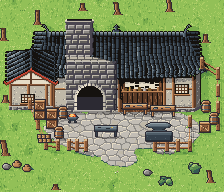
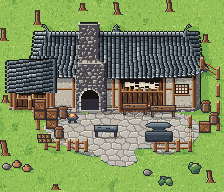
feat(mapas): roof.lean (un cobertizo de un solo agua), tejas con canal hondo y canto de luz
La forja, segunda vuelta contra la referencia: las columnas de teja se cuentan
(una cada 4 px), la chimenea es un volumen pegado al edificio (menos de un
quinto de la fachada, piedra chica y honda: lo más claro es el fuego) y el anexo
es un cobertizo de la misma teja, no una casita con fachada clara.

diff --git a/src/headless/mapsteps/building.ts b/src/headless/mapsteps/building.ts
@@ -103,17 +103,18 @@ export function paintRoof(ctx: Ctx, s: RoofShape, x0: number, y0: number, x1: nu
     const ph = Math.floor(h2(col, 0, salt) * th);
     const course = Math.floor((t + ph) / th), r = mod(t + ph, th);
     let c: number;
-    if (i === tw - 1) c = 1;                               // the channel between two columns
-    else if (i === 0) c = r === th - 1 ? 3 : 4;            // the round edge toward the light
+    // contrast enough that the columns count from afar: a dark channel, a lit round edge
+    if (i === tw - 1) c = 0;                               // the channel between two columns
+    else if (i === 0) c = r === th - 1 ? 3 : LIT;          // the round edge toward the light
+    else if (i === 1 && tw > 3) c = 4;                     // the light rolling off it
     else if (i === tw - 2 && tw > 2) c = 2;                // its shaded side
     else c = 3;
     if (r === th - 1 && i > 0 && i < tw - 1) c -= 1;       // the end of a tile laps over the next one: a notch
-    if (r === 0 && i === 0 && h2(col, course, salt + 3) < 0.5) c = LIT;
+    if (r === 0 && i === 0 && h2(col, course, salt + 3) < 0.4) c = GLINT;
     if (c >= 2) c += vary(col, course >> 1);
     if (f < 0.22 && c > 1) c -= 1;                         // under the ridge, in its shadow
     else if (f > 0.7 && c >= 2 && c < LIT && i === 0) c += 1;
     if (c >= 2) c += shift;
-    if (c === LIT && h2(col, course, salt + 4) < 0.15) c = GLINT;
     return Math.max(0, Math.min(n - 1, c));
   };
 
@@ -156,7 +157,7 @@ export function paintRoof(ctx: Ctx, s: RoofShape, x0: number, y0: number, x1: nu
           const i = mod(a, tw);
           if (y >= b - 2) {
             // the row of tile ends along the eaves: round ends, the channel stops short (the edge is never ruled)
-            if (y === b - 2) put(x, y, i === tw - 1 ? 1 : i === 0 ? 4 : i === tw - 2 ? 2 : LIT - (i === 1 ? 0 : 1));
+            if (y === b - 2) put(x, y, i === tw - 1 ? 1 : i === 0 || i === 1 ? GLINT : i === tw - 2 ? 3 : LIT); // the cold glint of the tile ends
             else if (i !== tw - 1) put(x, y, i === 0 || i === tw - 2 ? 1 : 2);
             continue;
           }
@@ -223,12 +224,16 @@ export function paintRoof(ctx: Ctx, s: RoofShape, x0: number, y0: number, x1: nu
   }
 
   // ---- a north-south ridge: two slopes, the west one lit and the east one in shade, a gable at the south end
-  const G = s.gable ?? 0;
-  const X0 = x0 - E, X1 = x1 + E - 1, xc = (X0 + X1) / 2, half = (X1 - X0) / 2;
+  // lean: a single slope, its ridge against the side it leans from (a shed against a wall)
+  const G = s.lean ? 0 : s.gable ?? 0;
+  const X0 = x0 - E, X1 = x1 + E - 1;
+  const xc = s.lean === 'west' ? X1 : s.lean === 'east' ? X0 : (X0 + X1) / 2;
+  const half = s.lean ? X1 - X0 : (X1 - X0) / 2;
   const top = (x: number) => y0 + Math.round(2 * Math.abs(x - xc) / half);
   const Yb = G ? y1 : y1 + E;
   const vline = (x: number) => (G ? y1 - G * (1 - Math.abs(x - xc) / half) : Yb);
-  const cw = Math.max(2, cap - 1), rc0 = Math.round(xc - cw / 2), rc1 = rc0 + cw;
+  const cw = Math.max(2, cap - 1);
+  const rc0 = s.lean === 'west' ? X1 - cw : s.lean === 'east' ? X0 : Math.round(xc - cw / 2), rc1 = rc0 + cw;
   for (let x = X0; x <= X1; x++) {
     const yb = Math.round(vline(x));
     for (let y = top(x); y < yb; y++) {
@@ -241,10 +246,11 @@ export function paintRoof(ctx: Ctx, s: RoofShape, x0: number, y0: number, x1: nu
       const west = x < rc0;
       const t = west ? rc0 - 1 - x : x - rc1 - 1;
       // the columns of tiles run down from the ridge and out, leaning down as they go (a pitch seen from the south)
-      const edge = west ? x - X0 : X1 - x, a = y - y0 - Math.round(t * 0.5);
+      // (a shed's single slope falls nearly level: its columns lean only a little)
+      const edge = west ? x - X0 : X1 - x, a = y - y0 - Math.round(t * (s.lean ? 0.15 : 0.5));
       if (edge === 0) { if (mod(a, tw) !== tw - 1) put(x, y, 1); continue; } // tile ends along the eaves
       if (edge === 1) { put(x, y, mod(a, tw) === tw - 1 ? 1 : west ? LIT : 3); continue; }
-      put(x, y, tileTone(t, a, Math.min(1, t / Math.max(1, half - cw)), west ? 1 : -1));
+      put(x, y, tileTone(t, a, Math.min(1, t / Math.max(1, half - cw)), s.lean ? 0 : west ? 1 : -1));
     }
   }
   // the north end of the ridge rises in a hook
@@ -307,7 +313,7 @@ export function runChimney(ctx: Ctx, st: ChimneyStep): void {
   const size = st.stones ?? [3, 6];
   const field = (st.masonry ?? 'coursed') === 'rubble' ? rubbleField(salt, size, 1.3) : coursedField(salt, st.course ?? 5, size[1] + 2);
   const front = (x: number, y: number, shadeTop: number) => {
-    let c = rubbleTone(field, x, y, -1, salt + 2, 2, [3, 4, 3, 4, 3, 4], b => b + 2, b => b - 1);
+    let c = rubbleTone(field, x, y, -1, salt + 2, 2, [3, 3, 4, 3, 3, 4], b => b + 2, b => b - 1);
     if (y < shadeTop + 1 && c > 2) c -= 1;
     return c;
   };

diff --git a/src/headless/mapsteps/buildingsteps.test.ts b/src/headless/mapsteps/buildingsteps.test.ts
@@ -116,6 +116,19 @@ describe('map roof', () => {
     expect(band.has('pergamino')).toBe(true);
   });
 
+  it('a shed: one slope only, falling west, its ridge along the east edge, as dark as the roof it leans on', () => {
+    const v = paintMap(recipe([GROUND, { step: 'roof', material: 'teja', rect: [4, 3, 4, 3], ridge: 'v', lean: 'west', curl: 0 }]), game);
+    const tiles = kindMask(v, ['teja']);
+    const xs = tiles.flatMap((t, i) => (t ? [i % v.width] : []));
+    const east = Math.max(...xs);
+    // the ridge: its dark edge on the east side; a slope of tiles across all the rest, no east slope
+    const col = (x: number) => [...Array(30).keys()].map(k => at(v, x, 60 + k));
+    expect(col(east - 1).filter(c => c === 'tinta').length).toBeGreaterThan(20);
+    const tones = new Set(col(80));
+    expect(tones.size).toBeGreaterThanOrEqual(3);
+    expect(Math.min(...xs)).toBeLessThan(64);
+  });
+
   it('the same salt, the same pixels; another salt, other tiles', () => {
     const again = paintMap(recipe([GROUND, ROOF]), game);
     expect(again.layers.ground.px).toEqual(m.layers.ground.px);
@@ -265,7 +278,7 @@ describe('map recipe: the forge', () => {
       return [...tops].sort((a, b) => a - b)[Math.floor(tops.length / 2)];
     };
     const range = (a: number, b: number) => [...Array(b - a).keys()].map(i => a + i);
-    const chimney = top('piedra de la forja', range(70, 80)), main = top('teja', range(120, 170)), annex = top('teja', range(20, 30));
+    const chimney = top('piedra de la forja', range(82, 92)), main = top('teja', range(120, 170)), annex = top('teja', range(20, 30));
     expect(chimney).toBeLessThan(main - 6);
     expect(main).toBeLessThan(annex - 8);
   });

diff --git a/src/headless/mapsteps/buildingschema.ts b/src/headless/mapsteps/buildingschema.ts
@@ -16,6 +16,7 @@ export const roofShape = z.object({
   material: z.string().describe('the tiles: a ramp of at least 6 tones [ink, deep, shadow, body, light, lit] (+ a glint), e.g. tinta, basalto hondo, basalto sombra, basalto, basalto claro, basalto luz, niebla'),
   ridge: z.enum(['h', 'v']).optional().describe('the ridge runs east-west (h: the south slope is what shows, the north one hides behind the ridge) or north-south (v: two slopes, the west one lit and the east one in shade) (default h)'),
   hip: z.number().int().min(0).optional().describe('h: px the ridge stops short of each end: the ends are hips (two triangles, the west lit and the east in shade, with a ridge of tiles down each hip line); 0 = gable ends (default 0)'),
+  lean: z.enum(['west', 'east']).optional().describe('v: one slope only, falling to that side, its ridge along the other edge (a shed leaning on a wall; no gable)'),
   gable: z.number().int().min(0).optional().describe('v: px high of the gable at the south end (the triangle of wall under the two slopes, framed by its bargeboards); 0 = none (default 0)'),
   pediment: z.object({
     fill: z.array(z.string()).min(2).optional().describe('the triangle: [shadow, body] (default túnica sombra, pergamino)'),

diff --git a/docs/map_recipes.md b/docs/map_recipes.md
@@ -179,7 +179,9 @@ de este documento es `docs/diseno/pintar_mapas.md` de ese repo.
   con luz, la del este en sombra); `ridge: "v"` muestra las dos aguas, la del
   oeste con luz, con las costillas bajando en diagonal desde el caballete, y
   `gable` px de hastial al sur (el triángulo de revoque con su puntal y sus
-  tablas de borde, `pediment`). El alero sobresale `eaves` px por los cuatro
+  tablas de borde, `pediment`). `lean: "west"` (o `"east"`) deja un solo agua que cae
+  hacia ese lado, con el caballete contra el otro borde: un cobertizo apoyado en
+  el cuerpo. El alero sobresale `eaves` px por los cuatro
   lados, se abre `flare` px hacia abajo (el alero es más ancho que el caballete,
   y las columnas se abren con él), sus esquinas suben y salen en punta
   (`upturn`) y la línea entre ellas se comba; la fila de abajo son los remates de
